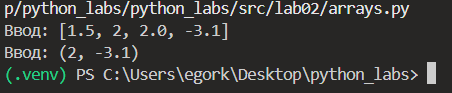
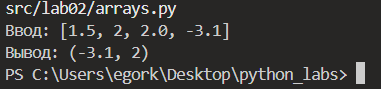
modified:   images/lab02/col_sums_1.png 	modified:   images/lab02/col_sums_2.png 	modified:   images/lab02/col_sums_3.png 	modified:   images/lab02/col_sums_4.png 	modified:   images/lab02/flatten_1.png 	modified:   images/lab02/flatten_2.png 	modified:   images/lab02/flatten_3.png 	modified:   imag

diff --git a/src/lab02/matrix.py b/src/lab02/matrix.py
@@ -6,7 +6,7 @@ def transpose(mat: list[list[float | int]]) -> list[list]:
         raise ValueError
     return [[mat[j][i] for j in range(len(mat))]for i in range(len(mat[0]))]
 
-#print(f"Ввод: {transpose(eval(input("Ввод: ")))}")
+#print(f"Вывод: {transpose(eval(input("Ввод: ")))}")
 
 
 def row_sums(mat: list[list[float | int]]) -> list[float]:
@@ -14,7 +14,7 @@ def row_sums(mat: list[list[float | int]]) -> list[float]:
             raise ValueError
     return list(map(lambda x: sum(x), mat))
 
-#print(f"Ввод: {row_sums(eval(input("Ввод: ")))}")
+#print(f"Вывод: {row_sums(eval(input("Ввод: ")))}")
 
 
 def col_sums(mat: list[list[float | int]]) -> list[float]:
@@ -22,4 +22,4 @@ def col_sums(mat: list[list[float | int]]) -> list[float]:
                 raise ValueError
     return [sum([mat[j][i] for j in range(len(mat))]) for i in range(len(mat[0]))]
 
-#print(f"Ввод: {col_sums(eval(input("Ввод: ")))}")
+print(f"Вывод: {col_sums(eval(input("Ввод: ")))}")

diff --git a/src/lab02/arrays.py b/src/lab02/arrays.py
@@ -1,15 +1,15 @@
 def min_max(nums: list[float | int]) -> tuple[float | int, float | int]:
     if len(nums) == 0:
         raise ValueError
-    return max(nums), min(nums)
+    return min(nums), max(nums)
 
-#print(f"Ввод: {min_max(eval(input("Ввод: ")))}")
+#print(f"Вывод: {min_max(eval(input("Ввод: ")))}")
 
 
 def unique_sorted(nums: list[float | int]) -> list[float | int]:
     return sorted(set(nums))
 
-#print(f"Ввод: {unique_sorted(eval(input("Ввод: ")))}")
+#print(f"Вывод: {unique_sorted(eval(input("Ввод: ")))}")
 
 
 def flatten(mat: list[list | tuple]) -> list:
@@ -20,5 +20,5 @@ def flatten(mat: list[list | tuple]) -> list:
         res.extend(i)
     return res
 
-#print(f"Ввод: {flatten(eval(input("Ввод: ")))}")
+print(f"Вывод: {flatten(eval(input("Ввод: ")))}")
 

diff --git a/src/lab02/tuples.py b/src/lab02/tuples.py
@@ -1,10 +1,13 @@
 def format_record(rec: tuple[str, str, float]) -> str:
-    if rec[0] == "" or rec[1] == "":
+    if rec[0] + rec[-1] == "()":
+        rec = eval(rec)
+    else:
         raise ValueError
-    if type(rec[2]) != float:
+    if rec[0] == "" or rec[1] == "" or len(rec) != 3 or len(rec[0].split()) not in [2, 3] or any([rec[1][i]=="-" for i in [0, -1]]) or not all([i.isalnum() for i in rec[1].split("-")]):
+        raise ValueError
+    if type(rec[2]) != float or type(rec) != tuple:
         raise TypeError
     name = [i.capitalize() for i in rec[0].split()]
     return f"{name[0]} {" ".join([i[0]+"." for i in name[1:]])}, гр. {rec[1]}, GPA {rec[2]:.02f}"
 
-print(format_record(eval(input())))
-
+print(f"Вывод: {format_record(input("Ввод: "))}")

diff --git a/src/lab02/README.md b/src/lab02/README.md
@@ -146,3 +146,8 @@ def format_record(rec: tuple[str, str, float]) -> str:
 ![test2](/images/lab02/format_record_2.png)
 ![test3](/images/lab02/format_record_3.png)
 ![test4](/images/lab02/format_record_4.png)
+![test5](/images/lab02/format_record_5.png)
+![test6](/images/lab02/format_record_6.png)
+![test7](/images/lab02/format_record_7.png)
+![test8](/images/lab02/format_record_8.png)
+![test9](/images/lab02/format_record_9.png)
